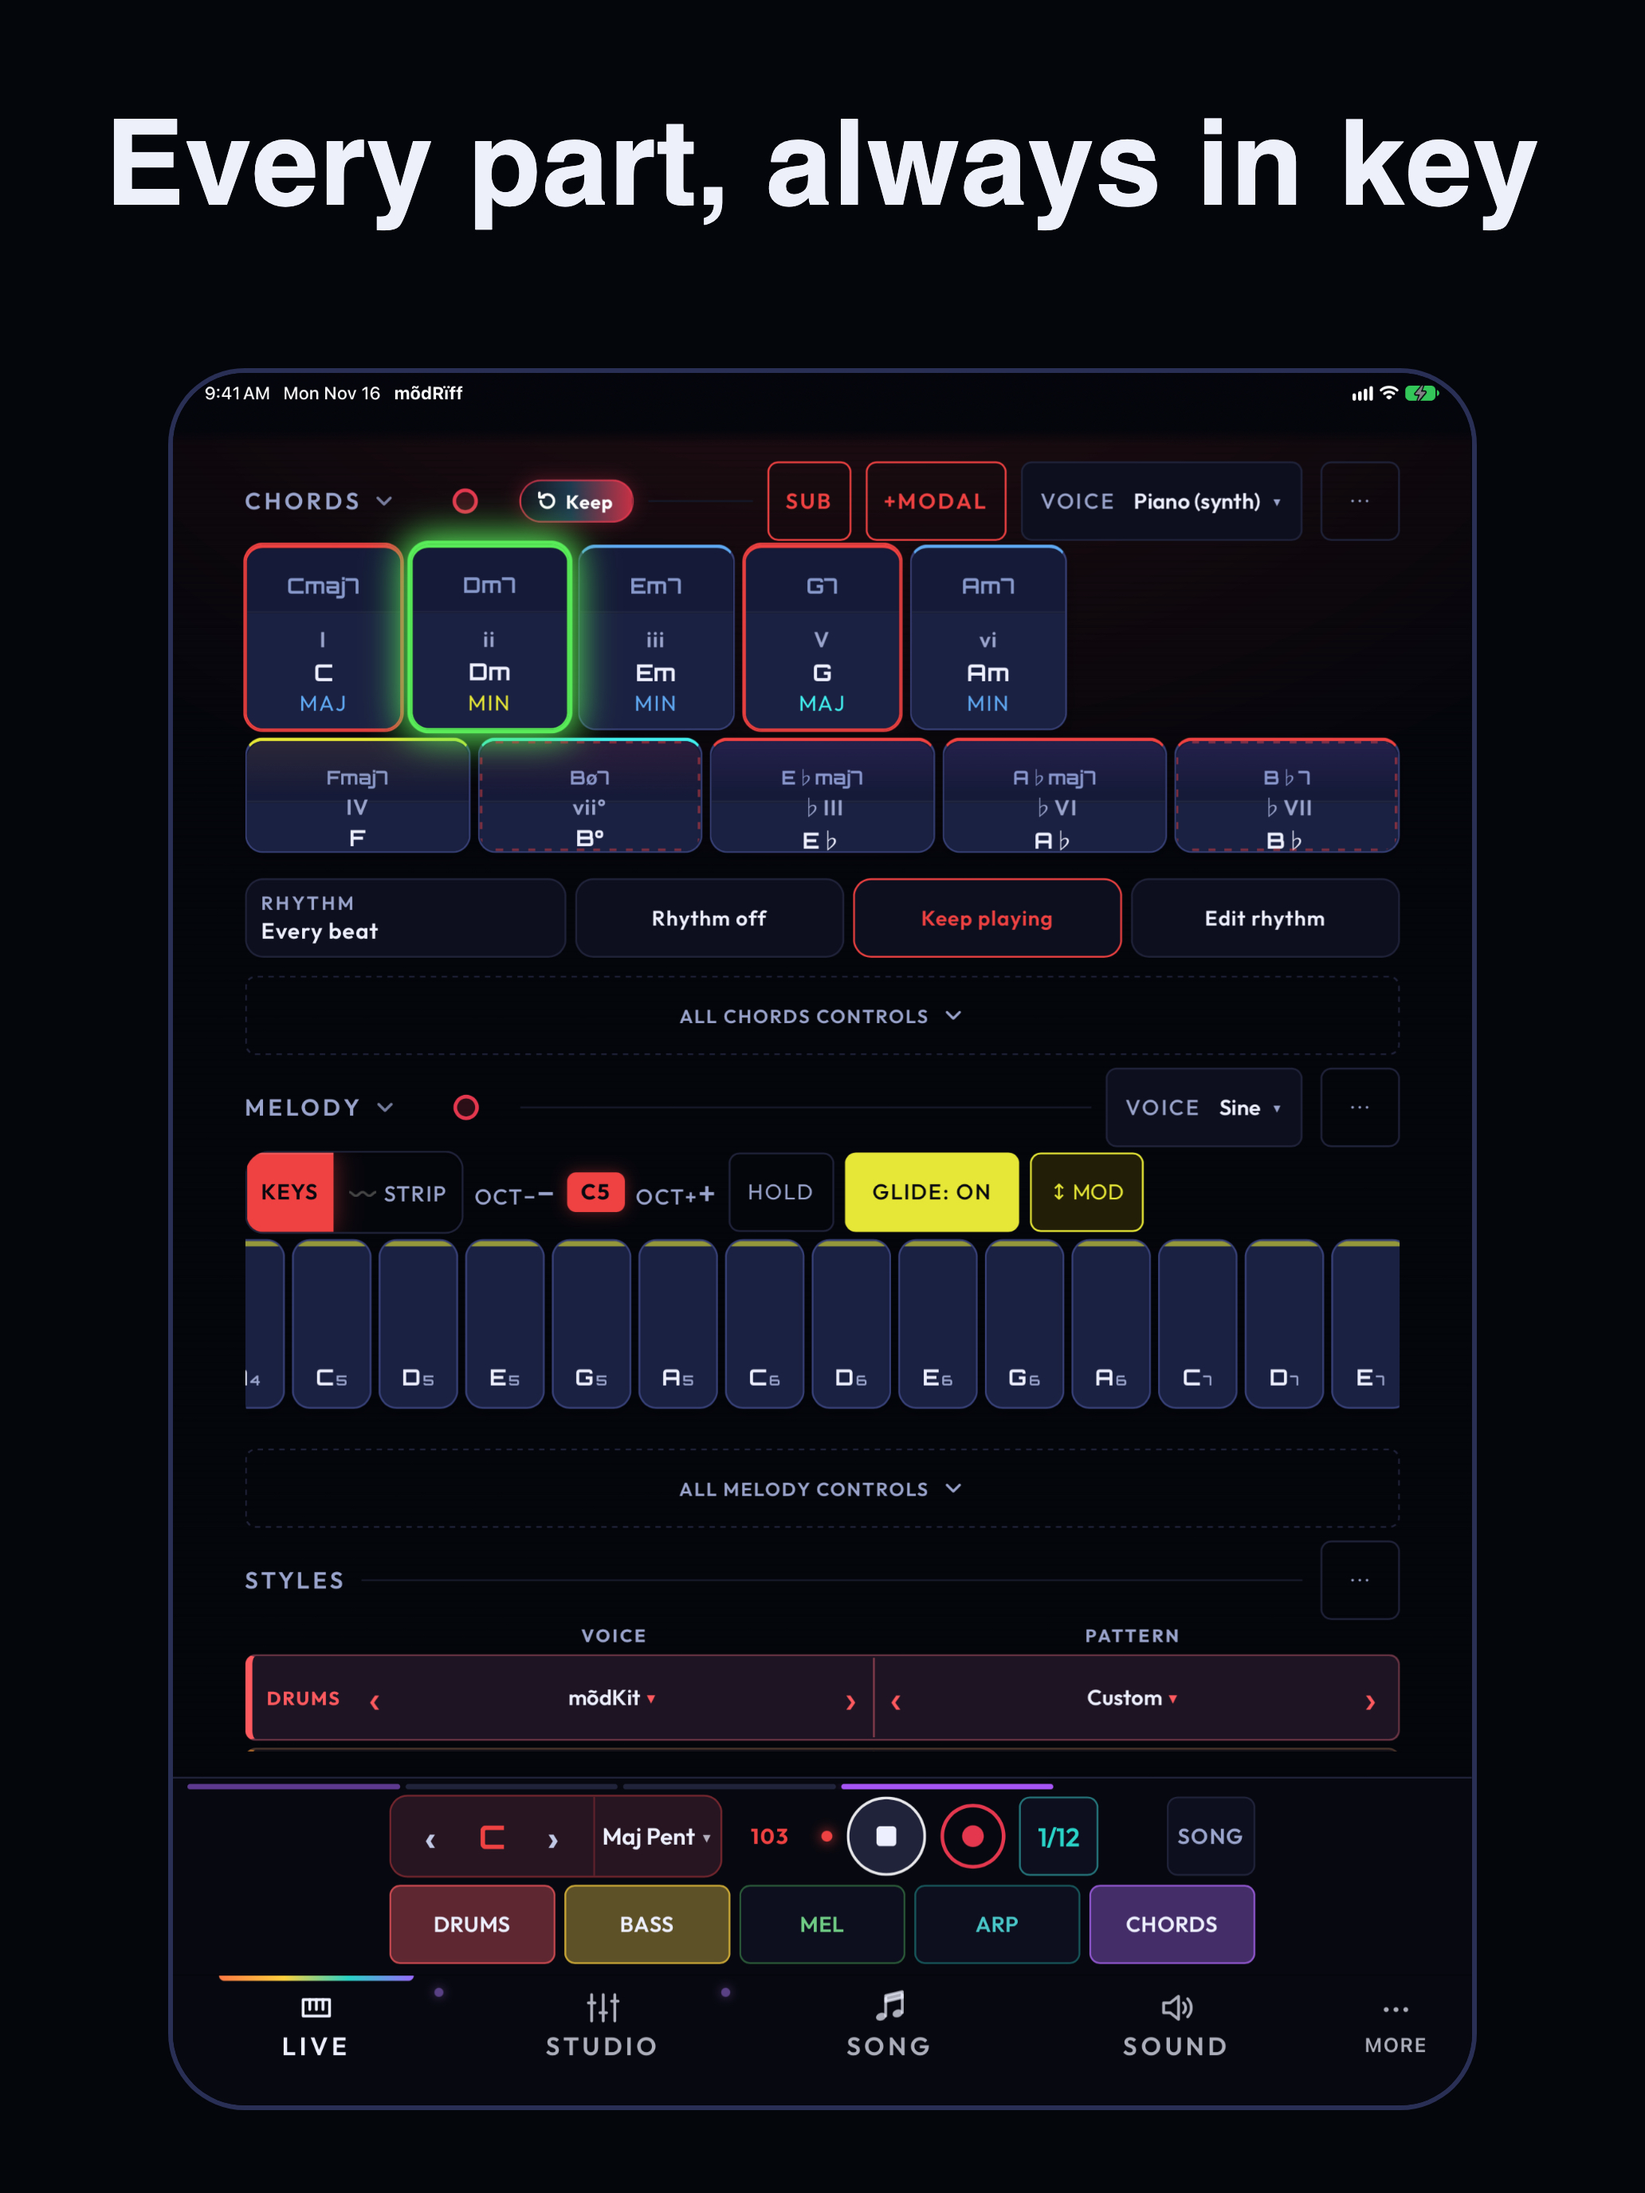
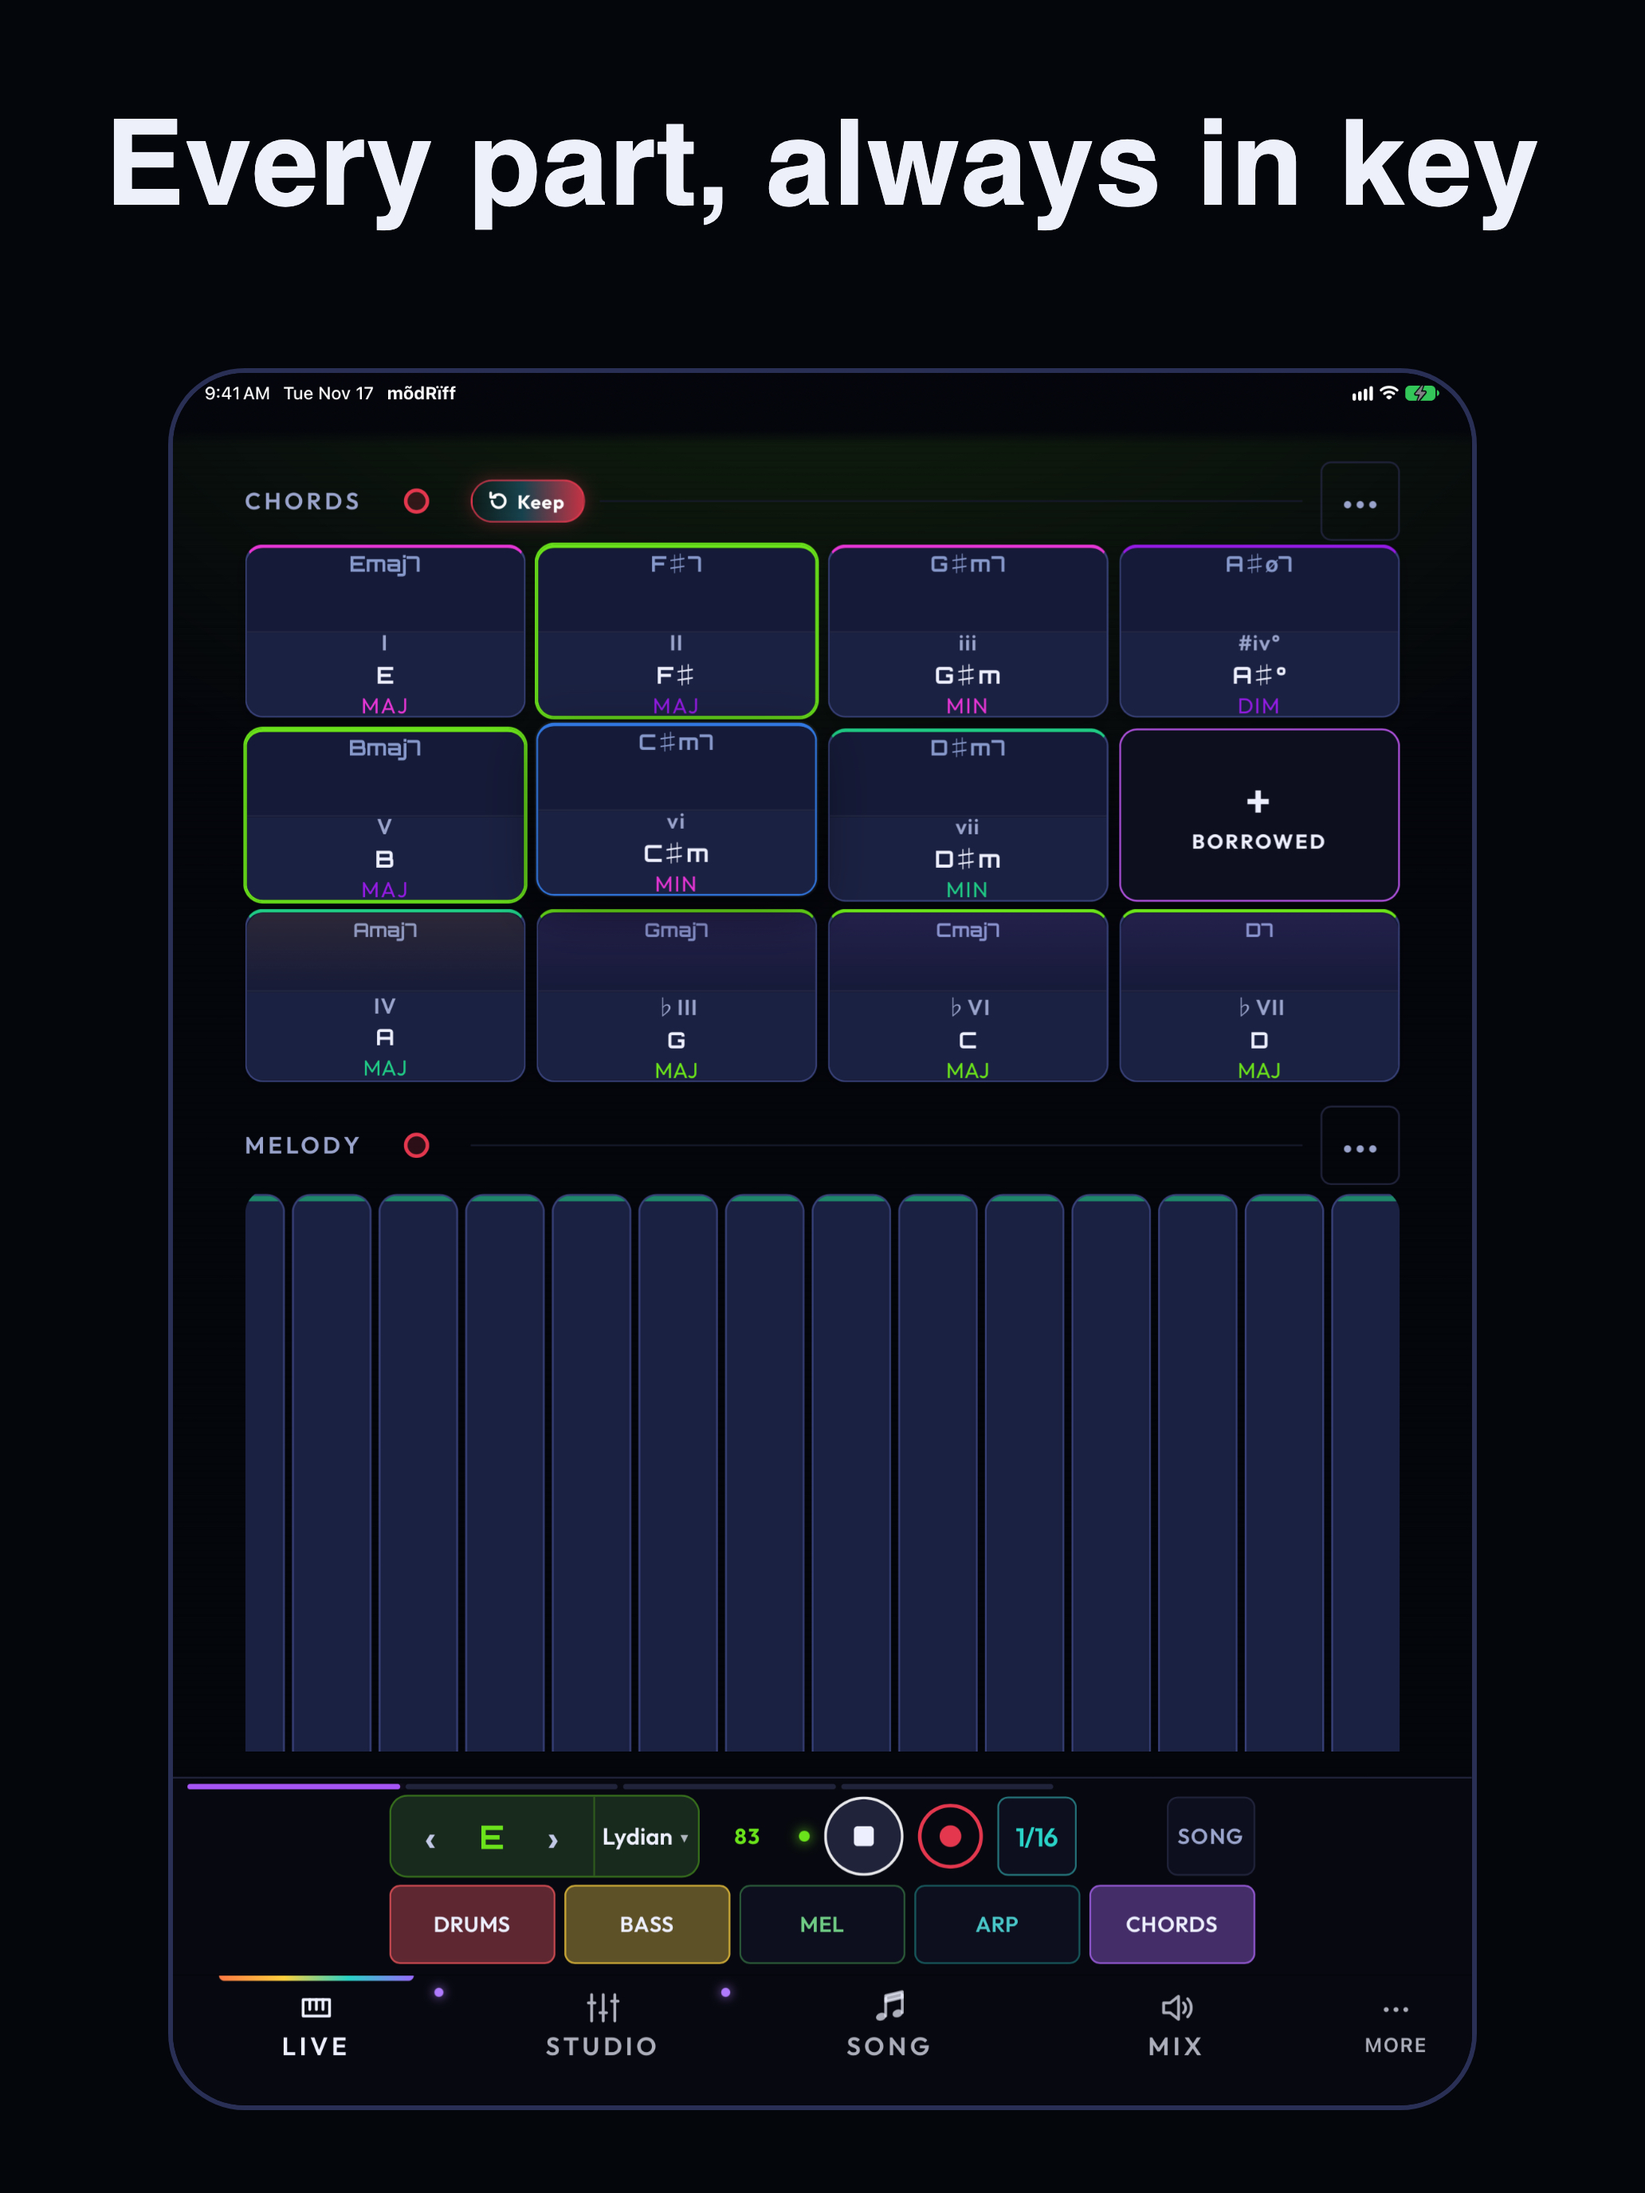
Store screenshots: the captioned set retaken from 1.9.2 (iPhone 6.9", iPad 13"), with the new Live, Studio, Mix and editor
Raw Simulator captures in raw/, captioned files rebuilt by build.sh (1320 x 2868 and 2064 x 2752, no alpha). docs/app-store.md says which set to upload; the app previews were not retaken.

diff --git a/docs/app-store.md b/docs/app-store.md
@@ -234,22 +234,16 @@ Contact: support@modriff.com
 
 ## Screenshots
 
-The upload set is `docs/app-store/screenshots/v6.9.9.9.9.9.9.9a/` (taken from build 6.9.9.9.9.9.9.9a in the iOS
-Simulator; the version shows on the splash shot). Tabs are Live, Studio, Song, Sound (the layout overhaul, 1.2 to 1.9.2, renamed Sound to Mix and changed Live, Studio, Mix and the editor: these shots predate it, so retake the set from a 1.9.2 or later build before it is uploaded; the Studio Pack promo image, `promo/Handel.modRiff.studio.png`, was remade for 1.8 and shows the EQ). No pack is locked in them and
-no other company's product name is visible. Everything older (`6.9in-` and `13in-` in this folder, `v6.9.2/`) shows
-retired tab names or the old kit names and is history only: do not upload it. `v6.9.6/` is the Duo layout reference.
-
-| set | device | size | files |
-|---|---|---|---|
-| iPhone 6.9" | iPhone 18 Pro Max | 1320 x 2868 | `iphone-6.9in-01-splash` to `05-sound` |
-| iPad 13" | iPad Pro 13-inch (M5) | 2064 x 2752 | `ipad-13in-01-splash` to `05-sound` |
-
-**Next set (in progress).** The first shot of the new set is the app playing with a caption, not the splash.
-Another session is producing a captioned set; it will report the folder name, and this section and the table are
-replaced then. Until it lands, upload nothing from the table below as the first shot.
-
-Order in both: splash, Live, Studio, Song, Sound. Each has a song loaded (Random), the transport playing and a chord
-lit. Sizes checked with `sips`. The iPad splash also shows RESUME because the shots came from one session.
+The upload set is `docs/app-store/screenshots/v7.1-captioned/` (the `iphone-6.9in-` and `ipad-13in-` files: 1320 x 2868 and
+2064 x 2752, opaque; five shots each, in this order: Live, Studio, Mix, Song, Stage, each with a caption over a framed screenshot).
+It was retaken for the layout overhaul from build 1.9.2 in the iOS Simulator (iPhone 18 Pro Max, iPad Pro 13-inch (M5)), status bar
+9:41, every pack open, the app playing a random song. The tabs read Live, Studio, Song, Mix, and the shots show what the overhaul
+made: Live's two rows of four split pads and tall keys, Studio's strip and pick row with a drum groove, the mõdSynth editor with the
+wavetable view, the Song builder and the chord chart. `raw/` holds the plain captures; `build.sh` regenerates the captioned files
+from them (it needs Chrome and `sips`). Everything under `v6.9.9.9.9.9.9.9a/`, `6.9in-`, `13in-`, `v6.9.2/` shows retired tab names
+or older layouts and is history only: do not upload it. `v6.9.6/` is the Duo layout reference. One caption, "A real synth and
+sampler inside", sits over the mõdSynth editor, which does not show the sampler; change the caption in `build.sh` or the shot.
+The app previews were not retaken.
 
 How to redo them: build the Simulator app with the optimiser on and the debug switch kept (a plain Debug build runs
 the C++ engine at -O0 and stalls the page; a Release build has no `__modDebug`, so no unlock switch):
